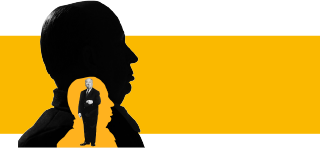
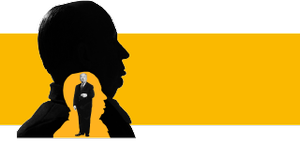
fix schalen tekst

diff --git a/src/index.html b/src/index.html
@@ -383,34 +383,34 @@
         <article class="fears content-container fears-grid" id="angsten">
           <h2 class="fears-title">The fears that followed him</h2>
           <picture class="police-img">
-            <source media="(min-width: 1120px)" srcset="assets/img/police.webp" type="image/webp"/>
-            <source media="(min-width: 1120px)" srcset="assets/img/police.png" />
+            <source media="(min-width: 960px)" srcset="assets/img/police.webp" type="image/webp"/>
+            <source media="(min-width: 960px)" srcset="assets/img/police.png" />
             <source media="(min-width: 500px)" srcset="assets/img/police2.webp" type="image/webp"/>
-            <source media="(min-width: 500px)" srcset="assets/img/police2.png" />
-            <source media="(max-width: 500px)" srcset="assets/img/mobile-police.webp" type="image/webp"/>
-            <source media="(max-width: 500px)" srcset="assets/img/mobile-police.png" />
+            <source media="(min-width: 550px)" srcset="assets/img/police2.png" />
+            <source media="(max-width: 550px)" srcset="assets/img/mobile-police.webp" type="image/webp"/>
+            <source media="(max-width: 550px)" srcset="assets/img/mobile-police.png" />
             
             <img class="wriggle police-img-fallback" src="assets/img/police2.png" alt="Angst voor de Politie."  />
             <!-- width="214" height="261" -->
           </picture>
           <picture class="fears-img">
-            <source media="(min-width: 1120px)" srcset="assets/img/fears.webp" type="image/webp"/>
-            <source media="(min-width: 1120px)" srcset="assets/img/fears.png" />
-            <source media="(min-width: 500px)" srcset="assets/img/fears2.webp" type="image/webp"/>
-            <source media="(min-width: 500px)" srcset="assets/img/fears2.png" />
-            <source media="(max-width: 500px)" srcset="assets/img/mobile-extremes.webp" type="image/webp"/>
-            <source media="(max-width: 500px)" srcset="assets/img/mobile-extremes.png" />
+            <source media="(min-width: 960px)" srcset="assets/img/fears.webp" type="image/webp"/>
+            <source media="(min-width: 960px)" srcset="assets/img/fears.png" />
+            <source media="(min-width: 550px)" srcset="assets/img/fears2.webp" type="image/webp"/>
+            <source media="(min-width: 550px)" srcset="assets/img/fears2.png" />
+            <source media="(max-width: 550px)" srcset="assets/img/mobile-extremes.webp" type="image/webp"/>
+            <source media="(max-width: 550px)" srcset="assets/img/mobile-extremes.png" />
             
             <img class="wriggle fears-img-fallback" src="assets/img/fears2.png" alt="Angst succes en angst om te falen." />
             <!-- width="214" height="243" -->
           </picture>
           <picture class="eggs-img">
-            <source media="(min-width: 1120px)" srcset="assets/img/eggs.webp" type="image/webp"/>
-            <source media="(min-width: 1120px)" srcset="assets/img/eggs.png" />
-            <source media="(min-width: 500px)" srcset="assets/img/eggs2.webp" type="image/webp"/>
-            <source media="(min-width: 500px)" srcset="assets/img/eggs2.png" />
-            <source media="(max-width: 500px)" srcset="assets/img/mobile-eggs.webp" type="image/webp"/>
-            <source media="(max-width: 500px)" srcset="assets/img/mobile-eggs.png" />
+            <source media="(min-width: 960px)" srcset="assets/img/eggs.webp" type="image/webp"/>
+            <source media="(min-width: 960px)" srcset="assets/img/eggs.png" />
+            <source media="(min-width: 550px)" srcset="assets/img/eggs2.webp" type="image/webp"/>
+            <source media="(min-width: 550px)" srcset="assets/img/eggs2.png" />
+            <source media="(max-width: 550px)" srcset="assets/img/mobile-eggs.webp" type="image/webp"/>
+            <source media="(max-width: 550px)" srcset="assets/img/mobile-eggs.png" />
 
             <source media="(max-width: 700px)" type="image/webp" srcset="assets/img/eggs2.webp" />
             <img class="wriggle eggs-img-fallback" src="assets/img/eggs2.png" alt="Angst voor eieren." />
@@ -466,7 +466,8 @@
 
 
             <div class="video-container">
-              <video width="700" height="380" class="videoplayer">
+                <!-- width="100%" height="380" -->
+              <video class="videoplayer">
                 <source src="assets/video/video.mp4" type="video/mp4">
               Your browser does not support the video tag.
               </video>

diff --git a/src/css/style.css b/src/css/style.css
@@ -16,9 +16,13 @@ html {
 body {
   font-size: 100%;
   display: flex;
-  font-size: var(--text-size);
+  font-size: 1.7rem;
   background-color: var(--light);
   color: var(--dark);
+}
+
+.content {
+  overflow: hidden;
 }
 
 /* section {
@@ -630,7 +634,7 @@ nav img {
 nav ul {
   display: flex;
   flex-flow: row-reverse;
-  width: 80vh;
+  width: 100%;
   justify-content: space-between;
   align-items: center;
   /* flex-direction: column;
@@ -858,10 +862,15 @@ input[type=range]::-ms-track {
   background: var(--highlight);
 }
 
+.videoplayer {
+  height: 100%;
+  width: 100%;
+}
+
 @media (max-width: 1300px) {
   
   .intro {
-    padding: 8rem 1rem;
+    padding: 8rem 0rem 2rem 2rem;
   }
 
   .twisted-youth {
@@ -1066,7 +1075,7 @@ input[type=range]::-ms-track {
 
 }
 
-@media (max-width: 500px) {
+@media (max-width: 550px) {
 
   /* html {
     font-size: 100%;
@@ -1160,25 +1169,6 @@ input[type=range]::-ms-track {
       'extremes'
       'yellow';
   }
-
-  .eggs-img {
-    width: 100%;
-    height: auto;
-  }
-
-  .police-img {
-    width: 100%;
-    height: auto;
-  }
-
-  .fears-img {
-    width: 100%;
-    height: auto;
-  }
-
-
-
- 
 
   .header-img-container picture {
     object-fit: cover;
